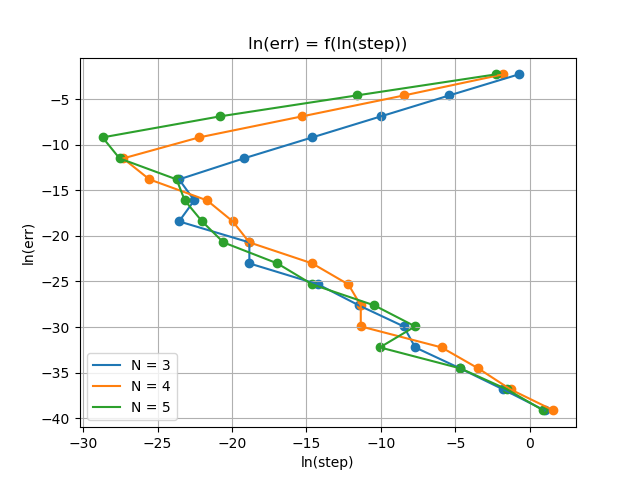
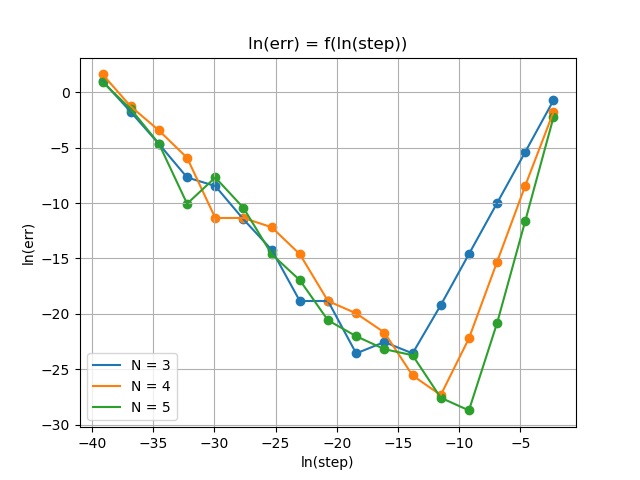
invert axises

diff --git a/python_graphs_drawer/derivative_graphs.py b/python_graphs_drawer/derivative_graphs.py
@@ -8,15 +8,15 @@ dir = '/home/kirill/git_repozitories/COMPUT_MATH/graphs/derivative/test_derivati
 
 for n_i in N:
     
-    X = []
     Y = []
+    X = []
 
     with open( dir + f'{n_i}.csv', 'r') as datafile:
         plotting = csv.reader(datafile, delimiter=';')
         
         for ROWS in plotting:
-            X.append(float(ROWS[1]))
-            Y.append(float(ROWS[0]))
+            Y.append(float(ROWS[1]))
+            X.append(float(ROWS[0]))
 
     X = np.array(X)
     Y = np.array(Y)
